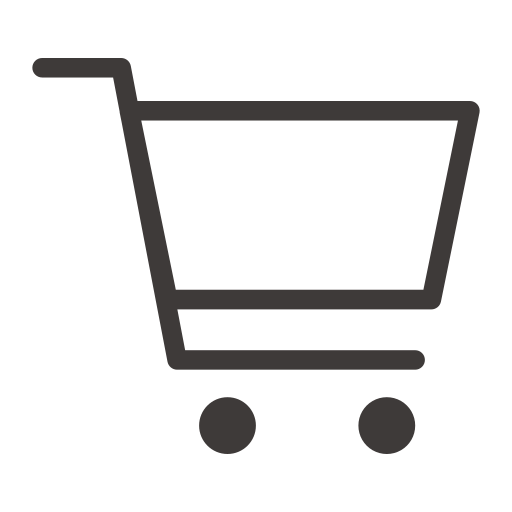
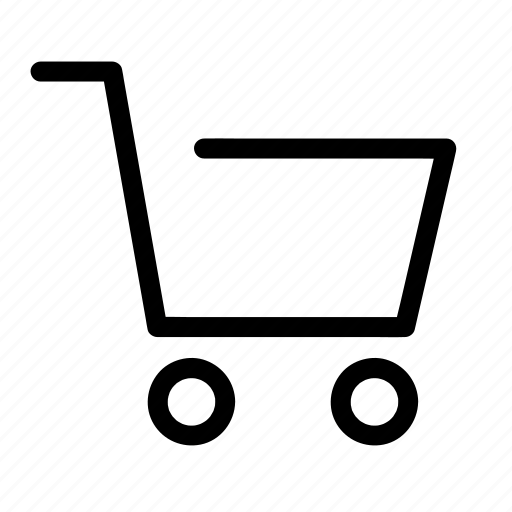
ultimas revisiones

Changed region(s): [[0.0625, 0.0938, 0.9375, 0.9062]]

diff --git a/src/components/Header.jsx b/src/components/Header.jsx
@@ -1,6 +1,8 @@
 import logo from "../media2/logo.png";
+import cartLogo from "../media2/cart.png"
 import { Link } from "react-router-dom";
 import { useState } from "react";
+import axios from "axios";
 
 const Header = ({
   allProducts,
@@ -12,12 +14,24 @@ const Header = ({
 }) => {
   const [active, setActive] = useState(false);
  
-  const options = {
-    method: "POST",
-    url: "https://api.escuelajs.co/api/v1/products/",
-    headers: { "content-Type": "application/json" },
-    data: { id: allProducts },
-  };
+  const onCreateOrder = () =>{
+    
+    const options = {
+      method: "POST",
+      url: "https://api.escuelajs.co/api/v1/products/",
+      headers: { "content-Type": "application/json" },
+      data: {title: allProducts},
+    };
+    axios
+    .request(options)
+    .then(function(response){
+      console.log(response.data);
+    })
+    .catch(function(error){
+      console.error(error)
+    })
+  } 
+  
   const onDeleteProduct = (producto) => {
     const results = allProducts.filter((item) => item.id !== producto.id);
     setTotal(total - producto.price * producto.cantidad);
@@ -65,20 +79,7 @@ const Header = ({
                 className="container-cart-icon"
                 onClick={() => setActive(!active)}
               >
-                <svg
-                  xmlns="http://www.w3.org/2000/svg"
-                  fill="none"
-                  viewBox="0 0 24 24"
-                  stroke-width="1.5"
-                  stroke="currentColor"
-                  className="icon-cart"
-                >
-                  <path
-                    stroke-linecap="round"
-                    stroke-linejoin="round"
-                    d="M15.75 10.5V6a3.75 3.75 0 10-7.5 0v4.5m11.356-1.993l1.263 12c.07.665-.45 1.243-1.119 1.243H4.25a1.125 1.125 0 01-1.12-1.243l1.264-12A1.125 1.125 0 015.513 7.5h12.974c.576 0 1.059.435 1.119 1.007zM8.625 10.5a.375.375 0 11-.75 0 .375.375 0 01.75 0zm7.5 0a.375.375 0 11-.75 0 .375.375 0 01.75 0z"
-                  />
-                </svg>
+                <img className="cartIcon"src={cartLogo} alt="carrito"></img>
                 <div className="count-products">
                   <span id="contador-productos">{contadorProductos}</span>
                 </div>
@@ -131,7 +132,7 @@ const Header = ({
                       <button className="btn-clear-all" onClick={onClearCart}>
                         Vaciar Carrito
                       </button>
-                      <button className="btn-pay-all" >
+                      <button className="btn-pay-all" onClick={onCreateOrder} >
                         Generar pedido
                       </button>
                     </div>

diff --git a/src/components/CardMenus.jsx b/src/components/CardMenus.jsx
@@ -15,7 +15,7 @@ axios.request(options).then(function(response){
   console.error(error);
   {<div>Not succesful</div>}
 });
-//1.40.34 react 8
+
 /*
 const Productos = [
   {
@@ -74,7 +74,7 @@ export const CardMenus = ({
     .catch(function(error){
       console.error(error);
     });
-    setProductos([]);
+    //setProductos([]);
   }, []);
 
   return (

diff --git a/src/styles/styles.css b/src/styles/styles.css
@@ -187,9 +187,17 @@ footer{
   align-items: center;
   border-radius: 50%;
 }
+.count-products:hover{
+  cursor: pointer;
+}
 
 #contador-productos{
   font-size: 0.75rem;
+}
+
+.cartIcon{
+  width: 2rem;
+  
 }
 
 .container-cart-products{
